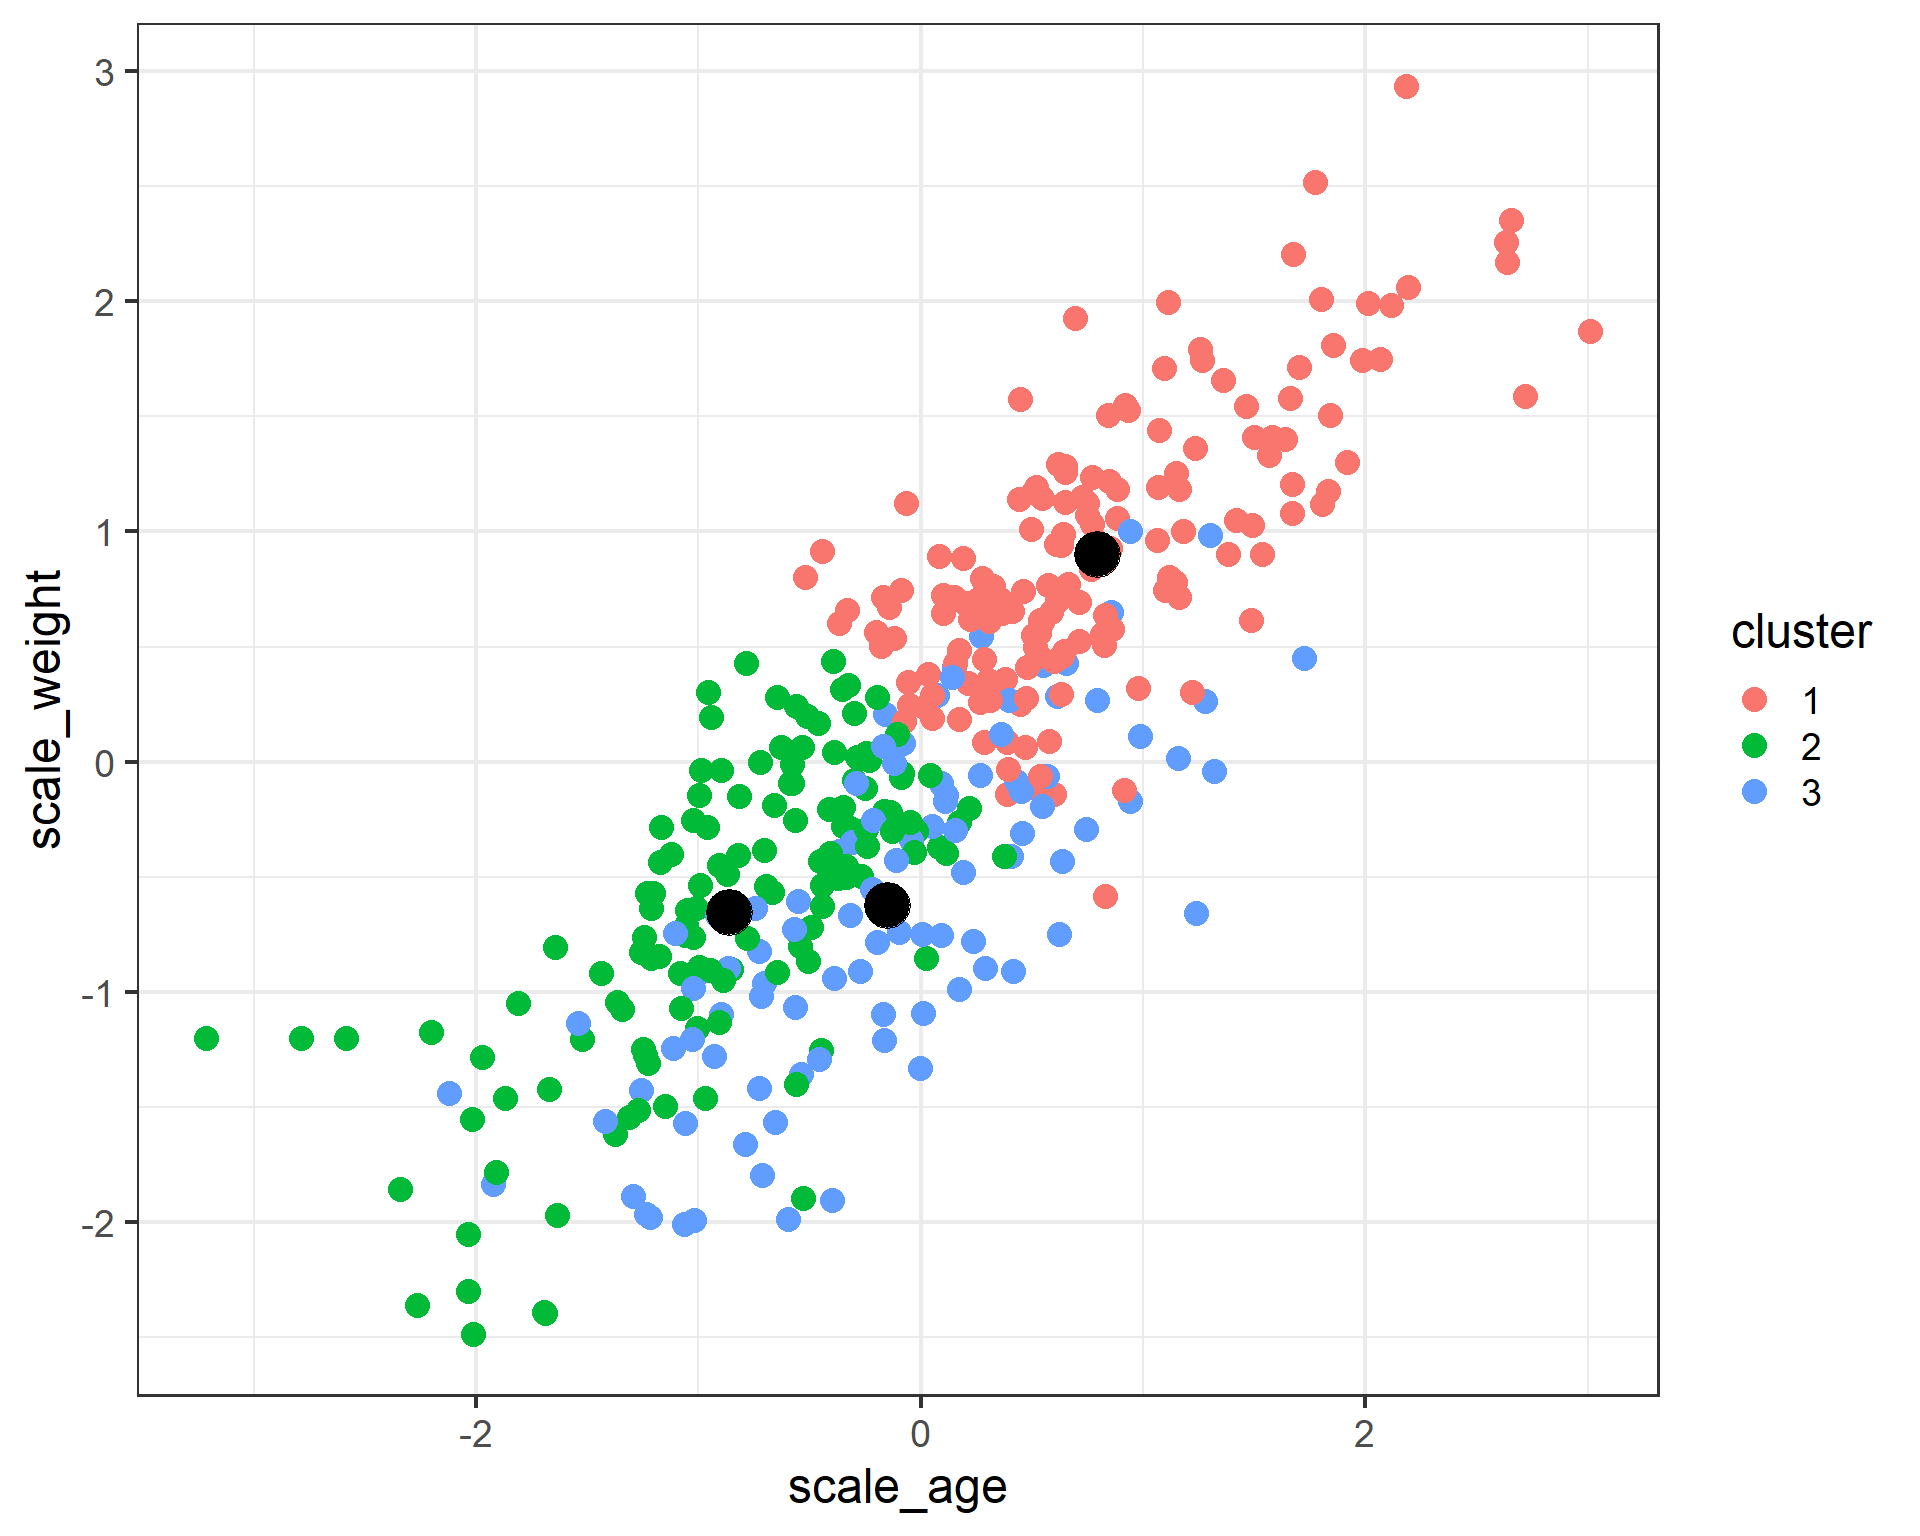
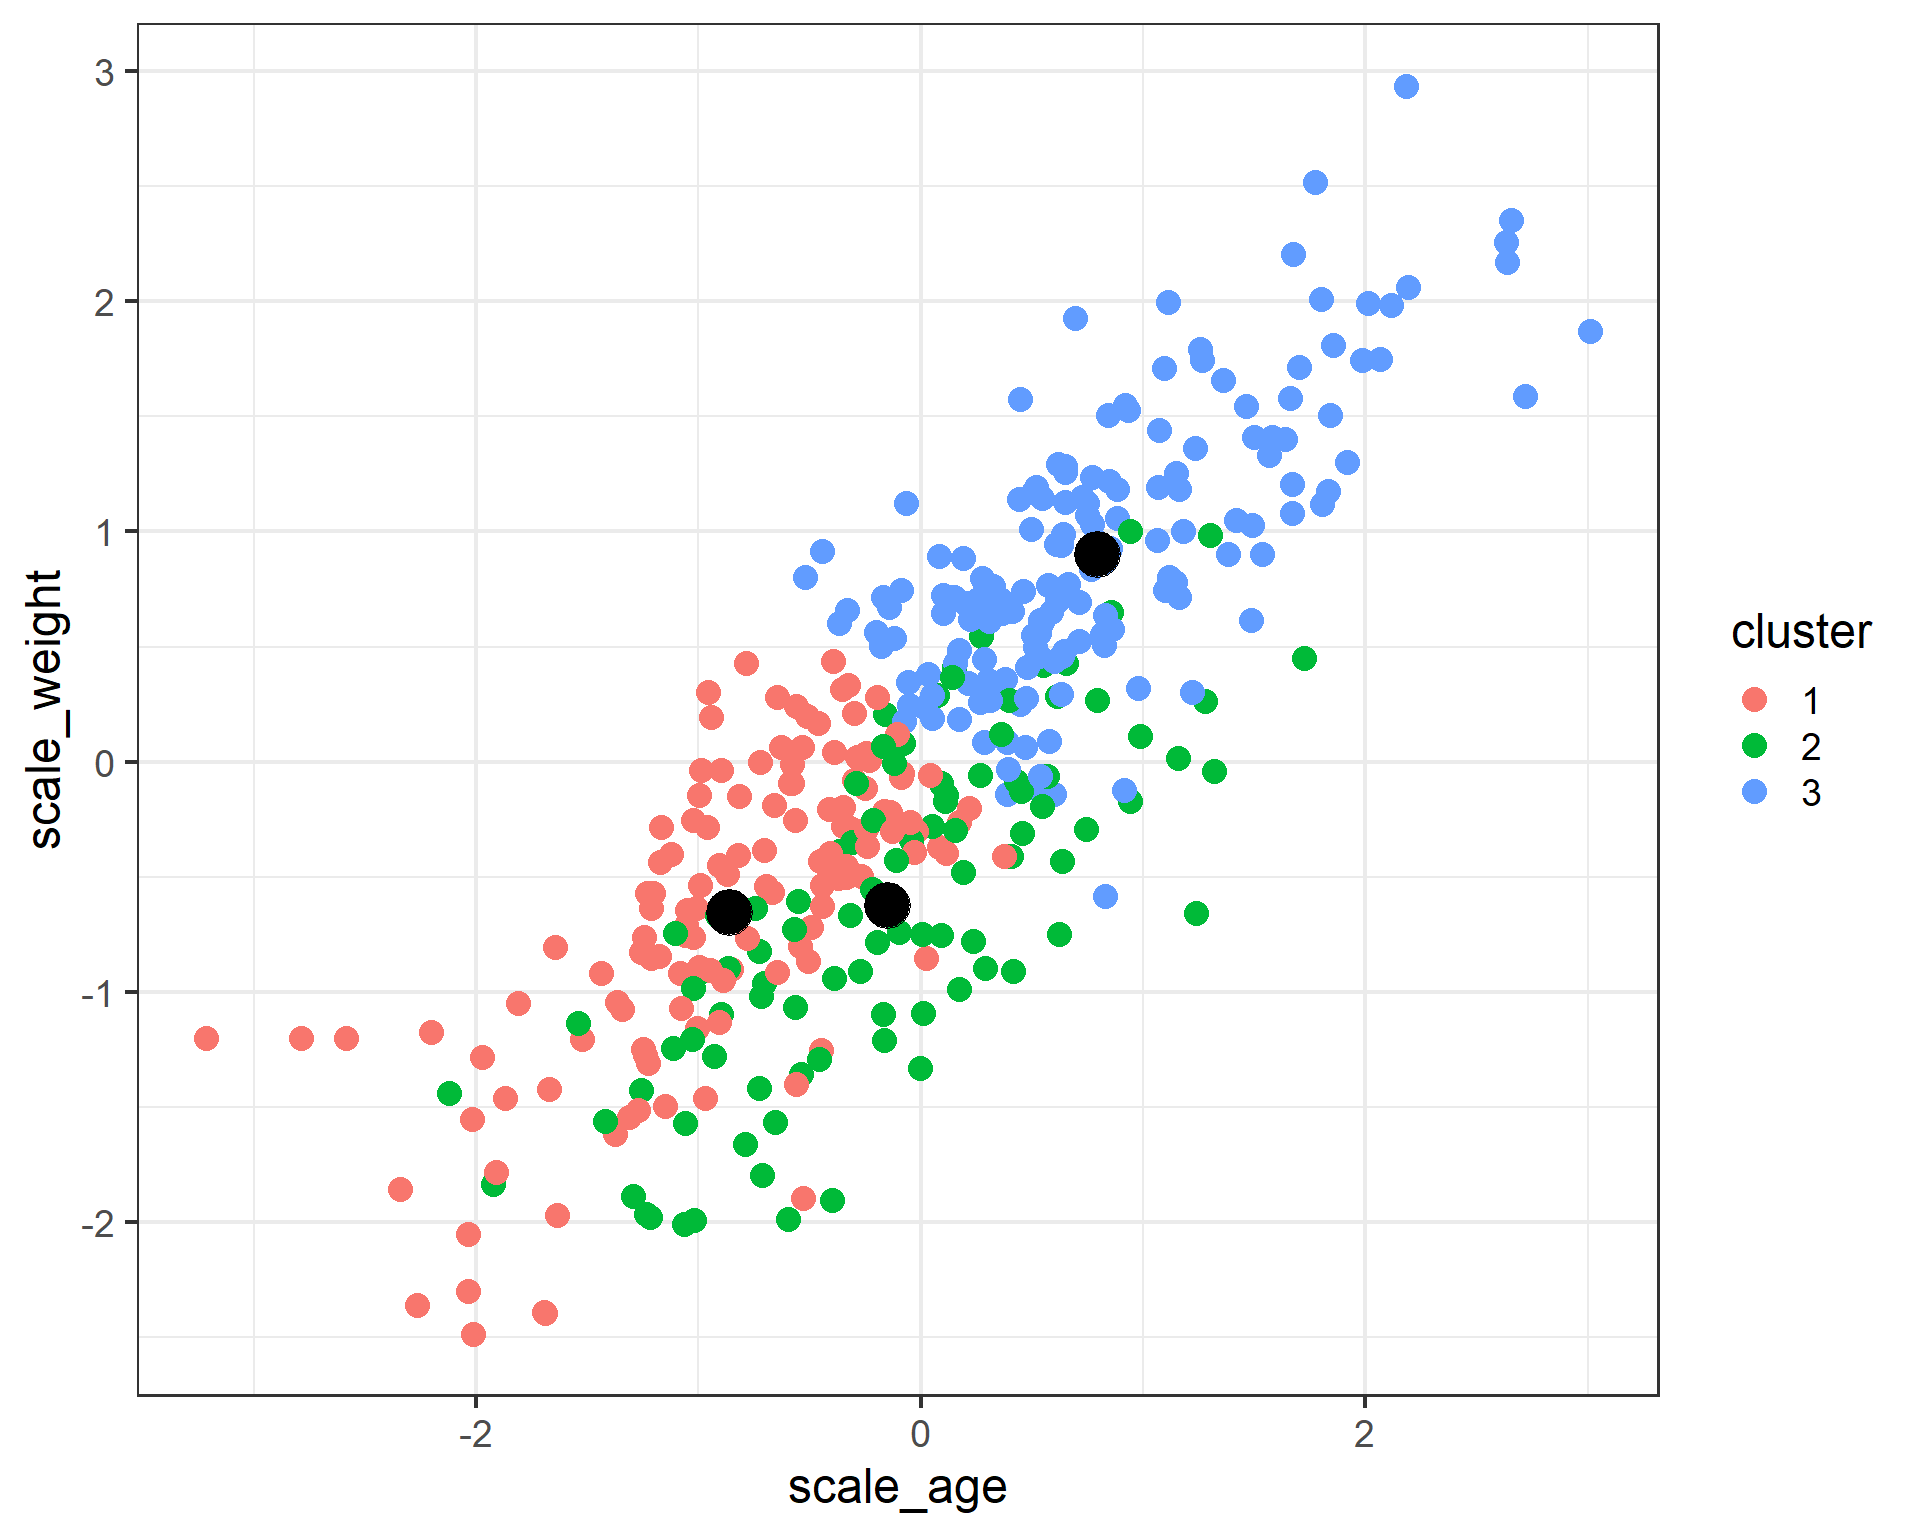
Update index & basic statistics.

diff --git a/beginneR/08-basic-statistics.html b/beginneR/08-basic-statistics.html
@@ -6,7 +6,7 @@
 
 <meta name="viewport" content="width=device-width, initial-scale=1.0, user-scalable=yes">
 
-<meta name="dcterms.date" content="2023-10-06">
+<meta name="dcterms.date" content="2023-10-07">
 
 <title>Common Statistical Techniques in R</title>
 <style>
@@ -91,7 +91,7 @@ pre > code.sourceCode > span > a:first-child::before { text-decoration: underlin
     <div>
     <div class="quarto-title-meta-heading">Published</div>
     <div class="quarto-title-meta-contents">
-      <p class="date">October 6, 2023</p>
+      <p class="date">October 7, 2023</p>
     </div>
   </div>
   
@@ -505,26 +505,26 @@ weight      -0.2509641 0.09484151 -2.646141 8.141576e-03</code></pre>
 <span id="cb42-5"><a href="#cb42-5" aria-hidden="true" tabindex="-1"></a><span class="fu">str</span>(cats_cluster)</span></code><button title="Copy to Clipboard" class="code-copy-button"><i class="bi"></i></button></pre></div>
 <div class="cell-output cell-output-stdout">
 <pre><code>List of 9
- $ cluster     : int [1:400] 3 3 3 3 1 2 3 1 1 3 ...
- $ centers     : num [1:3, 1:3] 0.902 -0.654 -0.621 -0.455 -0.479 ...
+ $ cluster     : int [1:400] 2 2 2 2 3 1 2 3 3 2 ...
+ $ centers     : num [1:3, 1:3] -0.654 -0.621 0.902 -0.479 1.416 ...
   ..- attr(*, "dimnames")=List of 2
   .. ..$ : chr [1:3] "1" "2" "3"
   .. ..$ : chr [1:3] "scale_weight" "scale_wander" "scale_age"
  $ totss       : num 1197
- $ withinss    : num [1:3] 187 163 144
+ $ withinss    : num [1:3] 163 144 187
  $ tot.withinss: num 494
  $ betweenss   : num 703
- $ size        : int [1:3] 166 135 99
- $ iter        : int 4
+ $ size        : int [1:3] 135 99 166
+ $ iter        : int 3
  $ ifault      : int 0
  - attr(*, "class")= chr "kmeans"</code></pre>
 </div>
 <div class="sourceCode cell-code" id="cb44"><pre class="sourceCode r code-with-copy"><code class="sourceCode r"><span id="cb44-1"><a href="#cb44-1" aria-hidden="true" tabindex="-1"></a>cats_cluster<span class="sc">$</span>centers</span></code><button title="Copy to Clipboard" class="code-copy-button"><i class="bi"></i></button></pre></div>
 <div class="cell-output cell-output-stdout">
 <pre><code>  scale_weight scale_wander  scale_age
-1    0.9019205   -0.4551119  0.7941463
-2   -0.6537444   -0.4787674 -0.8643999
-3   -0.6208415    1.4159815 -0.1528717</code></pre>
+1   -0.6537444   -0.4787674 -0.8643999
+2   -0.6208415    1.4159815 -0.1528717
+3    0.9019205   -0.4551119  0.7941463</code></pre>
 </div>
 </div>
 <hr>

diff --git a/beginneR/index.html b/beginneR/index.html
@@ -364,6 +364,12 @@ sets for different types of data science or statistics course or
 educational purposes.</p>
 <div id="set-up-r-codes-etc." class="section level2">
 <h2>Set-up, R codes etc.</h2>
+<p><strong>First things first, you will need to install R and
+RStudio.</strong></p>
+<p>Here is an excellent tutorial that takes you step-by-step through
+this: <a href="https://learnr-examples.shinyapps.io/ex-setup-r/">https://learnr-examples.shinyapps.io/ex-setup-r/</a></p>
+<p>Once you have both of them installed on your local machine, you are
+ready to take this tutorial.</p>
 <p>If you want to download the entire set of just the R codes, or the
 R-markdown files for creating the HTML files or the PDF versions, you
 can download the entire folder from Github: <a href="https://github.com/DattaHub/BeginneR">https://github.com/DattaHub/BeginneR</a>.

diff --git a/beginneR/index.md b/beginneR/index.md
@@ -4,6 +4,12 @@ This is an `R` workshop for first-time `R` users, and no prior programming exper
 
 ## Set-up, R codes etc.
 
+**First things first, you will need to install R and RStudio.**
+
+Here is an excellent tutorial that takes you step-by-step through this: [https://learnr-examples.shinyapps.io/ex-setup-r/](https://learnr-examples.shinyapps.io/ex-setup-r/)
+
+Once you have both of them installed on your local machine, you are ready to take this tutorial. 
+
 If you want to download the entire set of just the R codes, or the R-markdown files for creating the HTML files or the PDF versions, you can download the entire folder from Github: [https://github.com/DattaHub/BeginneR](https://github.com/DattaHub/BeginneR). Click on the blue "<>Code" button on the top-right corner and click "local" to see the download as zip file option. 
 
 The following topics are covered. 
